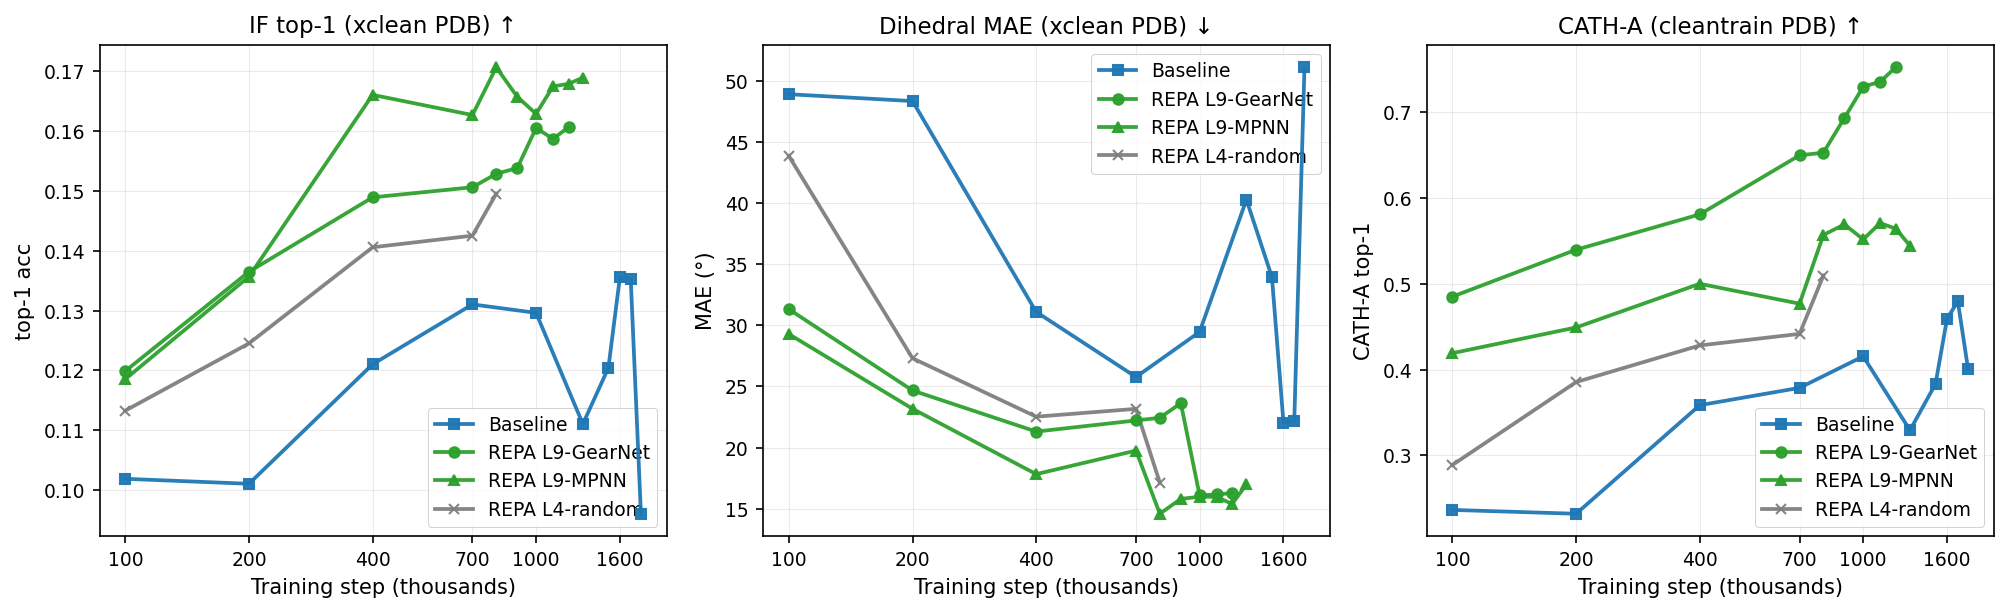
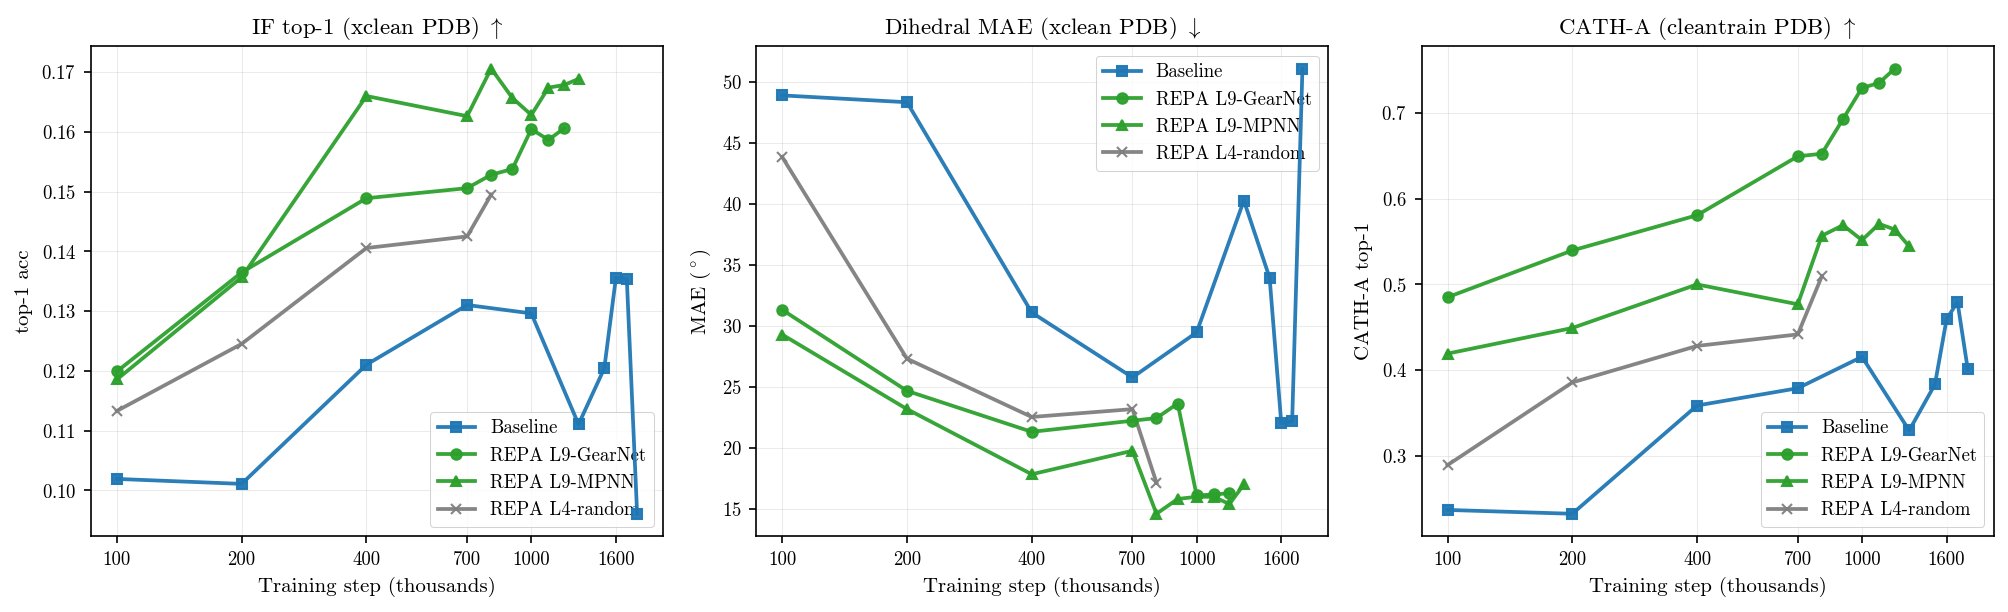
docs: match figure fonts to report body (Computer Modern)
Plots used matplotlib's default DejaVu Sans, clashing with the report's
Computer Modern Roman body text. Add an opt-in use_report_style() in
style.py (cmr10 + cm mathtext, no LaTeX dependency) and call it from all
five figure scripts.

Computer Modern is glyph-incomplete, so label text is kept within its
glyph set: arrows/degree rendered as mathtext, em dashes swapped for
colons. Regenerated all five figure PNGs.

diff --git a/docs/masters-report/figures/scripts/fig1c_headline_fid_des.py b/docs/masters-report/figures/scripts/fig1c_headline_fid_des.py
@@ -18,7 +18,7 @@ import re
 import os
 import sys
 from collections import defaultdict
-from statistics import mean, stdev
+from statistics import mean
 import matplotlib
 
 matplotlib.use("Agg")
@@ -26,10 +26,21 @@ import matplotlib.pyplot as plt
 import matplotlib.ticker as mticker
 
 sys.path.insert(0, os.path.dirname(__file__))
-from style import classify_family, setup_axes, plot_trajectory, legend, log_step_axis
+from style import (
+    classify_family,
+    setup_axes,
+    plot_trajectory,
+    legend,
+    log_step_axis,
+    use_report_style,
+)
+
+use_report_style()
 
 ROOT = "/home/sr2173/git/molecular-repa"
-OUT = f"{ROOT}/docs/masters-report/figures/fig01_fid_des_convergence.png"
+OUT = os.environ.get(
+    "FIG_OUT", f"{ROOT}/docs/masters-report/figures/fig01_fid_des_convergence.png"
+)
 
 PDB_JSONL = f"{ROOT}/evaluation/proteina/generation/results/paper/n256_convergence_pdb/sweep_results.clean.jsonl"
 AFDB_JSONL = f"{ROOT}/evaluation/proteina/generation/results/paper/n256_convergence_afdb/sweep_results.clean.jsonl"
@@ -69,11 +80,7 @@ def trajec(rows, key):
         for s in sorted(agg[fam]):
             vals = [v for v in agg[fam][s] if v is not None]
             if vals:
-                out[fam][s] = (
-                    mean(vals),
-                    stdev(vals) if len(vals) > 1 else 0.0,
-                    len(vals),
-                )
+                out[fam][s] = (mean(vals), min(vals), max(vals), len(vals))
     return out
 
 
@@ -85,10 +92,14 @@ def draw(ax, tj, fams_to_show, title, ylabel):
         steps = sorted(tj[fam])
         steps_k = [s / 1000 for s in steps]
         means = [tj[fam][s][0] for s in steps]
-        stds = [tj[fam][s][1] for s in steps]
-        plot_trajectory(ax, steps_k, means, stds, color, marker, label, zorder=z)
+        mins = [tj[fam][s][1] for s in steps]
+        maxs = [tj[fam][s][2] for s in steps]
+        # line + markers (suppress helper's SD band); draw a min--max band instead
+        plot_trajectory(ax, steps_k, means, None, color, marker, label, zorder=z)
+        if any(mx > mn for mn, mx in zip(mins, maxs)):
+            ax.fill_between(steps_k, mins, maxs, color=color, alpha=0.18, zorder=z - 1)
     setup_axes(ax, title=title, ylabel=ylabel)
-    log_step_axis(ax)
+    log_step_axis(ax, label="Training step (thousands, log scale)")
 
 
 def fid_panel(ax, tj, fams, title, ylabel):
@@ -116,14 +127,14 @@ fid_panel(
     axes[0, 0],
     trajec(pdb, "_res_PDB_FID"),
     PDB_FAMS,
-    title="PDB-trained — FID vs PDB reference ↓",
-    ylabel="FID-PDB",
+    title="(a) PDB-trained: FID $\\downarrow$",
+    ylabel="FID-PDB (log scale)",
 )
 des_panel(
     axes[0, 1],
     trajec(pdb, "_res_designability_rate"),
     PDB_FAMS,
-    title="PDB-trained — designability ↑",
+    title="(b) PDB-trained: designability $\\uparrow$",
     ylabel="Designability rate",
 )
 
@@ -132,17 +143,22 @@ fid_panel(
     axes[1, 0],
     trajec(afdb, "_res_AFDB_FID"),
     AFDB_FAMS,
-    title="AFDB-trained — FID vs AFDB reference ↓",
-    ylabel="FID-AFDB",
+    title="(c) AFDB-trained: FID $\\downarrow$",
+    ylabel="FID-AFDB (log scale)",
 )
 des_panel(
     axes[1, 1],
     trajec(afdb, "_res_designability_rate"),
     AFDB_FAMS,
-    title="AFDB-trained — designability ↑",
+    title="(d) AFDB-trained: designability $\\uparrow$",
     ylabel="Designability rate",
 )
 
-plt.tight_layout()
+fig.suptitle(
+    "$n{=}256$ models, 3 seeds; shaded bands show min/max",
+    fontsize=10,
+    y=0.995,
+)
+plt.tight_layout(rect=[0, 0, 1, 0.97])
 plt.savefig(OUT, dpi=150, bbox_inches="tight")
 print(f"Saved {OUT}")

diff --git a/docs/masters-report/figures/scripts/fig2_representation.py b/docs/masters-report/figures/scripts/fig2_representation.py
@@ -20,7 +20,16 @@ matplotlib.use("Agg")
 import matplotlib.pyplot as plt
 
 sys.path.insert(0, os.path.dirname(__file__))
-from style import classify_family, setup_axes, plot_trajectory, legend, log_step_axis
+from style import (
+    classify_family,
+    setup_axes,
+    plot_trajectory,
+    legend,
+    log_step_axis,
+    use_report_style,
+)
+
+use_report_style()
 
 ROOT = "/home/sr2173/git/molecular-repa"
 XCLEAN = f"{ROOT}/evaluation/proteina/representation/results/paper/n256_xclean_afdb_pdb/pretrained_sweep_results.csv"
@@ -90,21 +99,26 @@ cath_data = best_layer(
 # Build figure — 3 panels in a row
 fig, axes = plt.subplots(1, 3, figsize=(13.5, 4.2))
 plot_traj_panel(
-    axes[0], if_data, FAMS, "IF top-1 (xclean PDB) ↑", "top-1 acc", higher_better=True
+    axes[0],
+    if_data,
+    FAMS,
+    "IF top-1 (xclean PDB) $\\uparrow$",
+    "top-1 acc",
+    higher_better=True,
 )
 plot_traj_panel(
     axes[1],
     dih_data,
     FAMS,
-    "Dihedral MAE (xclean PDB) ↓",
-    "MAE (°)",
+    "Dihedral MAE (xclean PDB) $\\downarrow$",
+    "MAE ($^\\circ$)",
     higher_better=False,
 )
 plot_traj_panel(
     axes[2],
     cath_data,
     FAMS,
-    "CATH-A (cleantrain PDB) ↑",
+    "CATH-A (cleantrain PDB) $\\uparrow$",
     "CATH-A top-1",
     higher_better=True,
 )

diff --git a/docs/masters-report/figures/scripts/fig4c_gen_vs_rep_combined.py b/docs/masters-report/figures/scripts/fig4c_gen_vs_rep_combined.py
@@ -26,7 +26,9 @@ matplotlib.use("Agg")
 import matplotlib.pyplot as plt
 
 sys.path.insert(0, os.path.dirname(__file__))
-from style import classify_family, setup_axes, legend
+from style import classify_family, setup_axes, legend, use_report_style
+
+use_report_style()
 
 ROOT = "/home/sr2173/git/molecular-repa"
 XCLEAN = f"{ROOT}/evaluation/proteina/representation/results/paper/n256_xclean_afdb_pdb/pretrained_sweep_results.csv"
@@ -124,7 +126,7 @@ def panel(ax, gen_data, ylabel, set_ylim01=False):
 
     setup_axes(
         ax,
-        xlabel="Dihedral MAE (xclean PDB, best layer, °)",
+        xlabel="Dihedral MAE (xclean PDB, best layer, $^\\circ$)",
         ylabel=ylabel,
     )
     ax.invert_xaxis()  # so "better rep" reads left-to-right
@@ -181,13 +183,13 @@ def panel(ax, gen_data, ylabel, set_ylim01=False):
 fig, axes = plt.subplots(1, 2, figsize=(13, 5.4))
 
 # Left = FID-PDB (lower is better; y NOT inverted)
-panel(axes[0], gen_trajec("_res_PDB_FID"), ylabel="FID-PDB ↓")
+panel(axes[0], gen_trajec("_res_PDB_FID"), ylabel="FID-PDB $\\downarrow$")
 
 # Right = designability rate (higher is better)
 panel(
     axes[1],
     gen_trajec("_res_designability_rate"),
-    ylabel="Designability rate ↑",
+    ylabel="Designability rate $\\uparrow$",
     set_ylim01=True,
 )
 

diff --git a/docs/masters-report/figures/scripts/fig3_alignment.py b/docs/masters-report/figures/scripts/fig3_alignment.py
@@ -18,7 +18,9 @@ matplotlib.use("Agg")
 import matplotlib.pyplot as plt
 
 sys.path.insert(0, os.path.dirname(__file__))
-from style import COLORS, MARKERS, setup_axes, legend
+from style import COLORS, MARKERS, setup_axes, legend, use_report_style
+
+use_report_style()
 
 ROOT = "/home/sr2173/git/molecular-repa"
 SRC = f"{ROOT}/evaluation/proteina/alignment/results/cknna_matrix_per_residue.jsonl"
@@ -78,7 +80,7 @@ for model in ["baseline", "repa_gearnet_l9", "repa_mpnn_l9"]:
     )
 setup_axes(
     ax,
-    title="CKNNA to GearNet (target), per layer ↑",
+    title="CKNNA to GearNet (target), per layer $\\uparrow$",
     xlabel="Trunk layer index",
     ylabel="CKNNA (per-residue, k=10)",
 )
@@ -116,14 +118,14 @@ for target, label, color, marker in TARGETS:
         "-",
         marker=marker,
         color=color,
-        label=f"REPA L9-GN → {label}",
+        label=f"REPA L9-GN $\\rightarrow$ {label}",
         linewidth=1.8,
         markersize=6,
         zorder=10,
     )
 setup_axes(
     ax,
-    title="REPA-L9-GN propagates alignment off-diagonally (Platonic) ↑",
+    title="REPA-L9-GN propagates alignment off-diagonally (Platonic) $\\uparrow$",
     xlabel="Trunk layer index",
 )
 ax.set_xticks(list(range(0, 10)))

diff --git a/docs/masters-report/figures/scripts/style.py b/docs/masters-report/figures/scripts/style.py
@@ -9,6 +9,33 @@ Conventions (locked 2026-05-28):
 
 import re
 
+
+def use_report_style():
+    """Match figure text to the report body font (Computer Modern / Latin Modern).
+
+    The report loads no font package, so LaTeX typesets it in Computer Modern
+    Roman. matplotlib ships the matching ``cmr10`` TTF and a ``cm`` mathtext
+    fontset, so we can match the look without shelling out to LaTeX (fast, no
+    external dependency, can never fail a figure regen).
+
+    Caveats handled here:
+      * cmr10 has no proper minus glyph -> ``axes.unicode_minus=False``.
+      * cmr10 has no arrow/unicode-symbol glyphs; write arrows as mathtext
+        (e.g. ``$\\downarrow$``) in labels, not literal "down" Unicode.
+    """
+    import matplotlib as mpl
+
+    mpl.rcParams.update(
+        {
+            "font.family": "serif",
+            "font.serif": ["cmr10", "Computer Modern Roman", "DejaVu Serif"],
+            "mathtext.fontset": "cm",
+            "axes.formatter.use_mathtext": True,
+            "axes.unicode_minus": False,
+        }
+    )
+
+
 # Locked palette
 COLORS = {
     "baseline": "#1f77b4",  # blue

diff --git a/docs/masters-report/figures/scripts/fig5_td_tradeoff.py b/docs/masters-report/figures/scripts/fig5_td_tradeoff.py
@@ -26,7 +26,9 @@ matplotlib.use("Agg")
 import matplotlib.pyplot as plt
 
 sys.path.insert(0, os.path.dirname(__file__))
-from style import COLORS, MARKERS, setup_axes, legend
+from style import COLORS, MARKERS, setup_axes, legend, use_report_style
+
+use_report_style()
 
 ROOT = "/home/sr2173/git/molecular-repa"
 SRC = f"{ROOT}/evaluation/proteina/generation/results/variance/wholeset_vs_designable_diversity.json"
@@ -135,7 +137,7 @@ plot_panel(
     axes[0],
     "PDB",
     ["baseline", "L9_GN", "L9_MPNN", "L4_rand"],
-    title="PDB — REPA concentrates designable, not whole-set",
+    title="PDB: REPA concentrates designable, not whole-set",
 )
 
 # AFDB — baseline + L4-GN (clean concentration) + L9-MPNN (the falsifier, stays on diagonal)
@@ -143,7 +145,7 @@ plot_panel(
     axes[1],
     "AFDB",
     ["baseline", "L4_GN", "L9_MPNN"],
-    title="AFDB — MPNN-L9 stays on diagonal (no concentration)",
+    title="AFDB: MPNN-L9 stays on diagonal (no concentration)",
 )
 
 plt.tight_layout()
